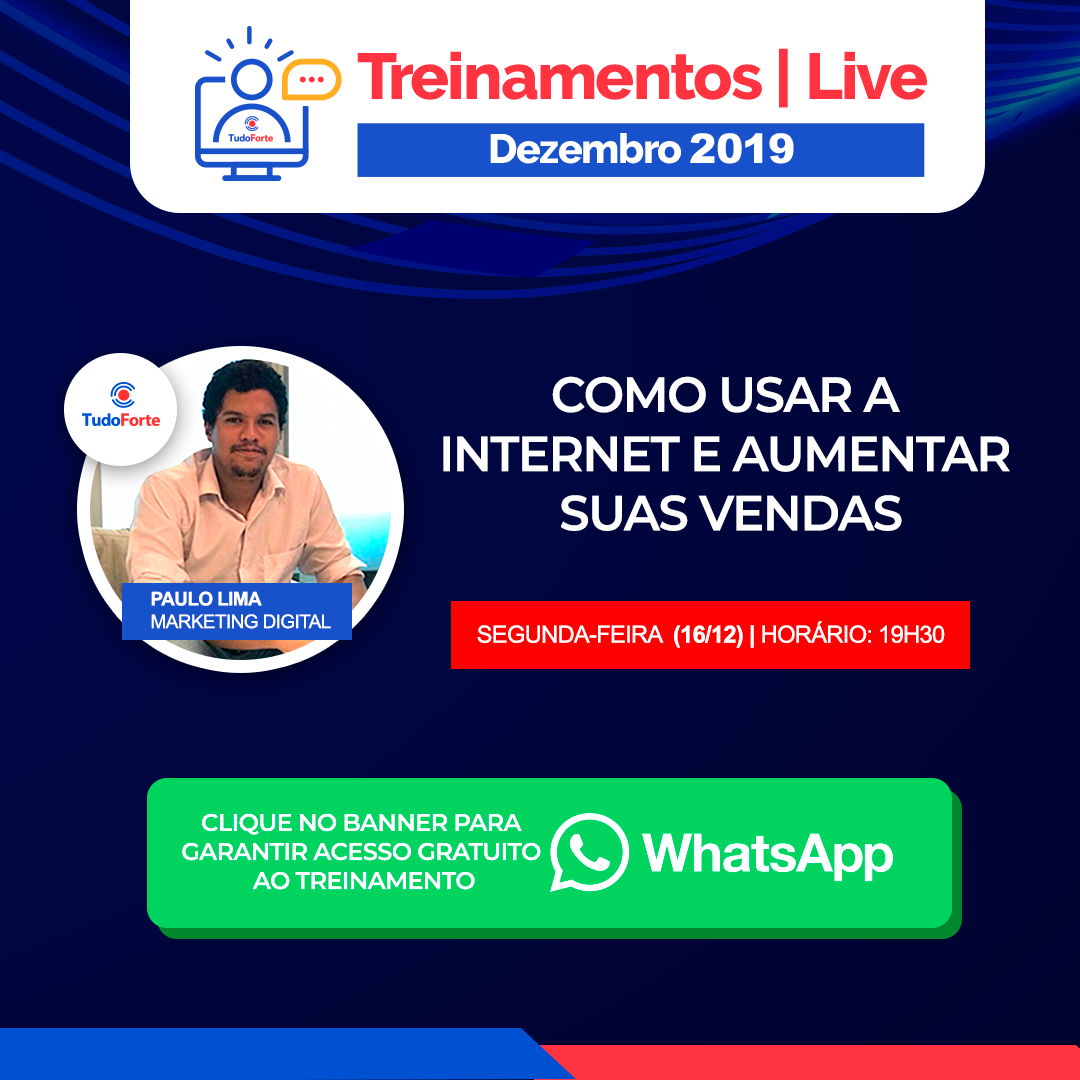
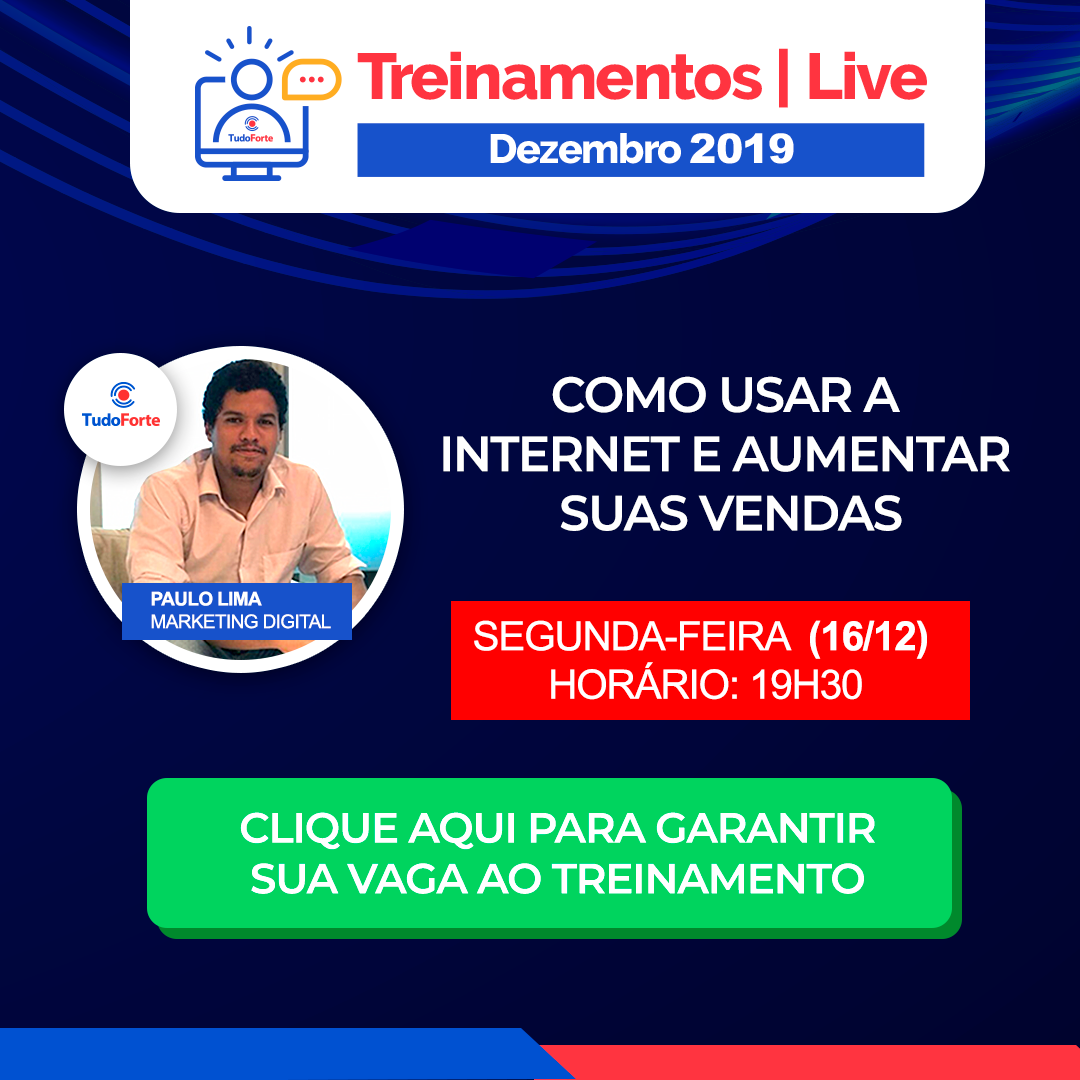
Alteração

Changed region(s): [[0.1528, 0.7333, 0.825, 0.825], [0.3972, 0.55, 0.9167, 0.6722]]

diff --git a/index-layout-novo-estilo-revendedor.html b/index-layout-novo-estilo-revendedor.html
@@ -53,35 +53,24 @@
         <td>
           <font size="1" face="Arial" color="#121135" cellpadding="" style="font-size:1rem; line-height: 1.75rem;"
             bgcolor="#e5e5e538">
-            <h2 style="text-transform: uppercase; line-height: 30px; text-align: center">PROFISSIONAL DE SEGURANÇA: QUER
-              SABER COMO USAR A INTERNET E AUMENTAR SUAS VENDAS? (TREINAMENTO GRATUITO)
+            <h2 style="text-transform: uppercase; line-height: 30px; text-align: center">APRENDA COMO USAR A INTERNET E
+              AUMENTAR SUAS VENDAS
             </h2>
             <p style="margin-bottom: 25px">
-              <strong>O Paulo Lima, Gerente de Marketing Digital da Tudo Forte</strong>, Ecommerce Especializado em
-              Segurança Eletrônica,
-              Convida você para na próxima segunda-feira, 16/12, participar do nosso treinamento ao vivo onde vamos
-              conversar sobre <strong>“COMO USAR A INTERNET E AUMENTAR SUAS VENDAS”</strong>.
+              Anote na sua agenda, é na próxima segunda feira,<strong>dia 16/12 às 19h30!</strong>
             </p>
 
             <p style="margin-bottom: 25px">
-              O Ambiente online oferece inúmeras <strong>oportunidades de negócio</strong>. No entanto, para aproveitar
-              as oportunidades
-              é necessário estar preparado para os diferentes desafios de vender na internet.
-
+              Nosso especialista de Marketing Digital, Paulo Lima, <em><strong>vai mostrar algumas dicas e estratégias
+                  que
+                  profissionais de segurança eletrônica podem aplicar no seu dia a dia e usar a internet</strong></em>
+              para
+              fortalecer sua
+              marca e alcançar bons resultados através da venda ou prestação de serviço.
             </p>
 
             <p style="margin-bottom: 25px">
-              <strong>Anote na sua agenda, próxima segunda-feira 16/12 às 19h30 </strong> a Tudo Forte entrará ao vivo e
-              mostrará como
-              você pode divulgar seus produtos e desenvolver boas estratégias de marketing digital para fortalecer sua
-              marca e alcançar bons resultados.
-
-            </p>
-
-            <p style="margin-bottom: 25px">
-              <strong>Quer participar gratuitamente?</strong> Então acesse o grupo de Whatsapp exclusivo pelo link
-              abaixo, pois assim
-              você garante seu acesso ao nosso treinamento:
+              Acesse agora o grupo exclusivo deste treinamento pelo link abaixo, e <strong>garanta seu acesso</strong>.
             </p>
 
             <p
@@ -91,7 +80,7 @@
             </p>
 
             <p style="margin-top: 25px">
-              A live contará com Conteúdos Exclusivos para profissionais de segurança e será totalmente gratuita.
+              Atenção: O link da Live será divulgado exclusivamente neste grupo minutos antes de iniciar.
             </p>
           </font>
         </td>
